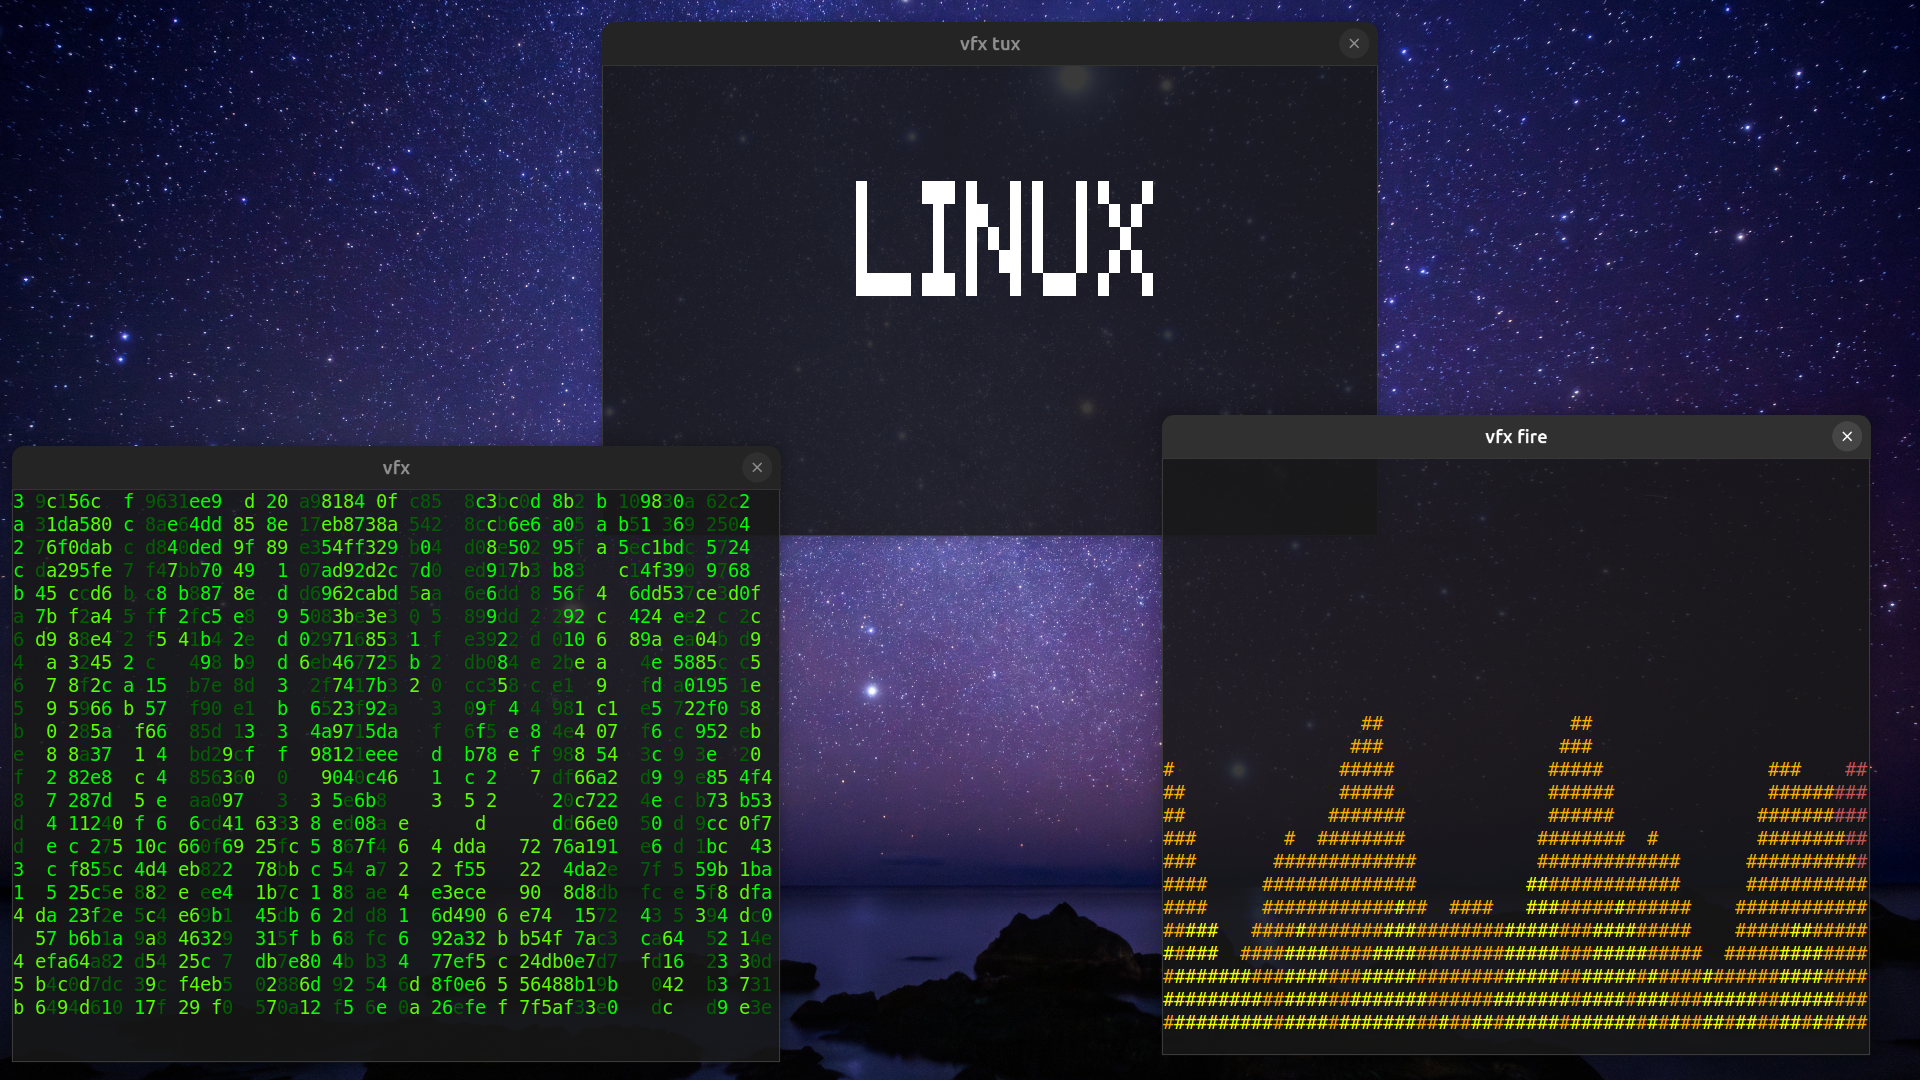
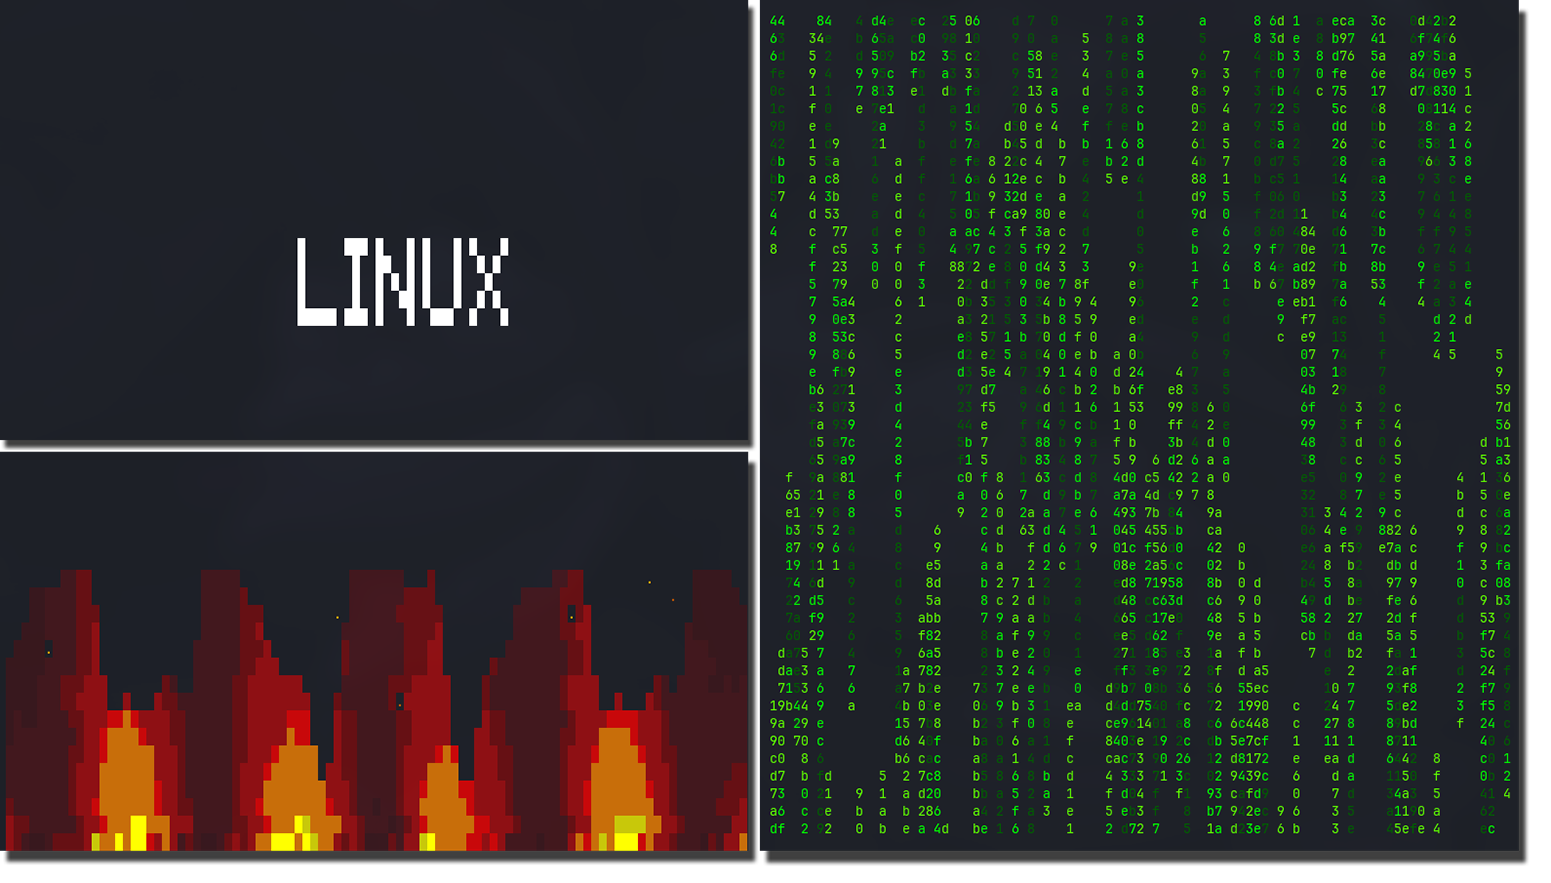
update readme

diff --git a/README.md b/README.md
@@ -1,6 +1,13 @@
 # ltm_list
 
-![vfx preview](img/vfx.png)
+![logo](logo.svg)
+
+<p>
+    <img src="img/vfx.png" alt="logo" width="400">
+    <img src="img/snk.png" alt="snk" width="265">
+    <img src="img/dvi.png" alt="dvi" width="190">
+</p>
+
 
 A collection of useful CLI utilities for everyday tasks.
 
@@ -17,6 +24,7 @@ After installation, all programs will be available from any directory.
 ### `dvi` — download video and images
 
 Downloads video from YouTube, VK, Pinterest, TikTok, Instagram, and 1800+ other platforms. If no video is found on the page, it automatically downloads the image.
+
 
 ```bash
 dvi <link>                          # best quality
@@ -110,8 +118,8 @@ Calculator with a pseudo-graphic interface and keyboard support.
 ```
 
 **Controls:**
-- Arrows — button navigation
-- Enter — click button
+- `Arrows` — button navigation
+- `Enter` — click button
 - `Ctrl+C` — exit menu
 - `q` — exit
 
